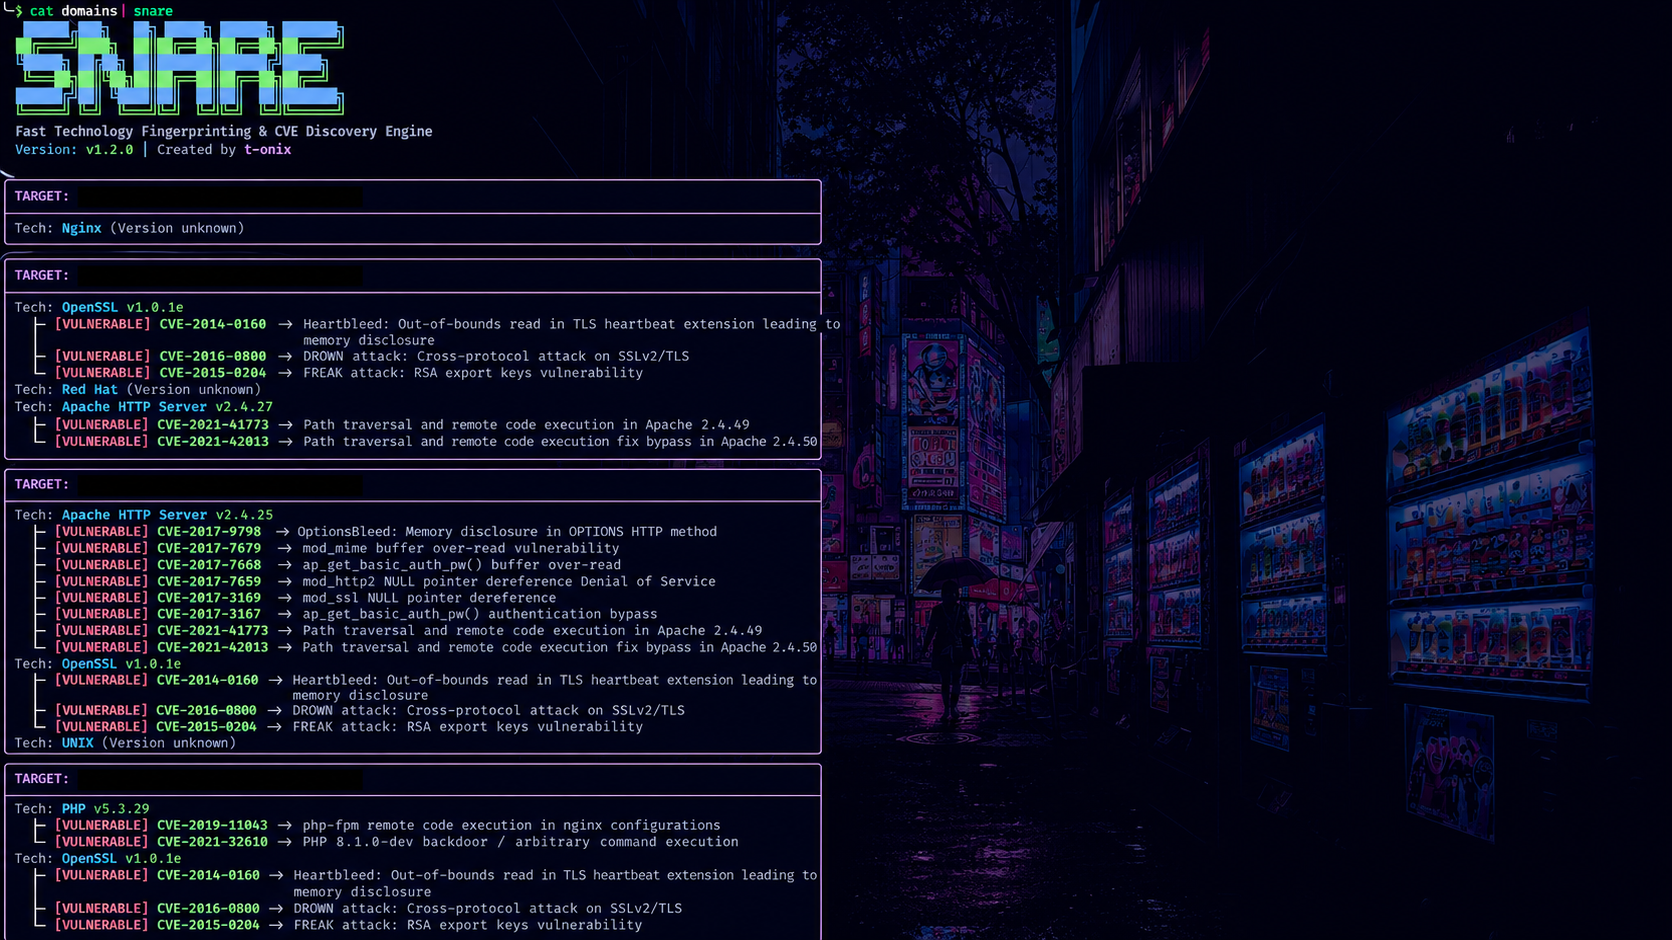
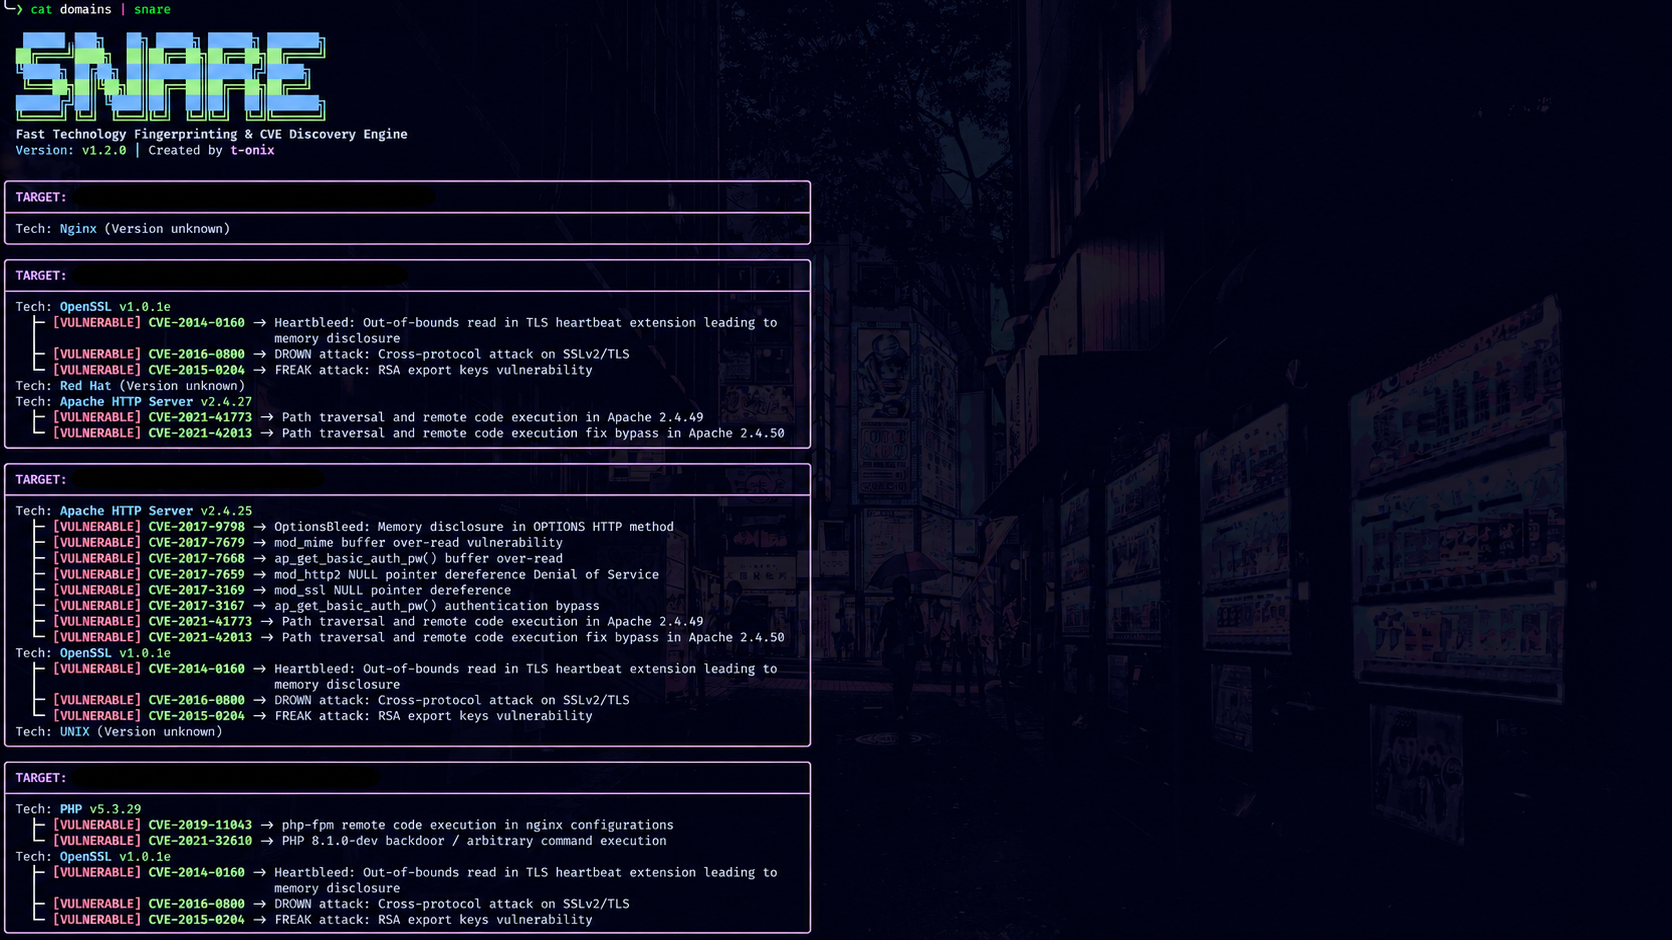
Some Changes

Changed region(s): [[0.0, 0.0, 0.9641, 1.0], [0.5287, 0.8947, 0.622, 0.9564], [0.5287, 0.9872, 0.5909, 1.0]]

diff --git a/banner.go b/banner.go
@@ -30,5 +30,5 @@ func printBanner() {
 	}
 
 	fmt.Printf("%s  %sFast Technology Fingerprinting & CVE Discovery Engine%s\n", ColorSubtext, ColorBold, ColorReset)
-	fmt.Printf("%s  %sVersion: %sv1.2.0 %s│%s Created by %st-onix%s\n\n", ColorSubtext, ColorBlue, ColorGreen, ColorBlue, ColorSubtext, ColorMauve+ColorBold, ColorReset)
+	fmt.Printf("%s  %sVersion: %sv1.2.0 %s│%s Created by %sT-Onix%s\n\n", ColorSubtext, ColorBlue, ColorGreen, ColorBlue, ColorSubtext, ColorMauve+ColorBold, ColorReset)
 }
